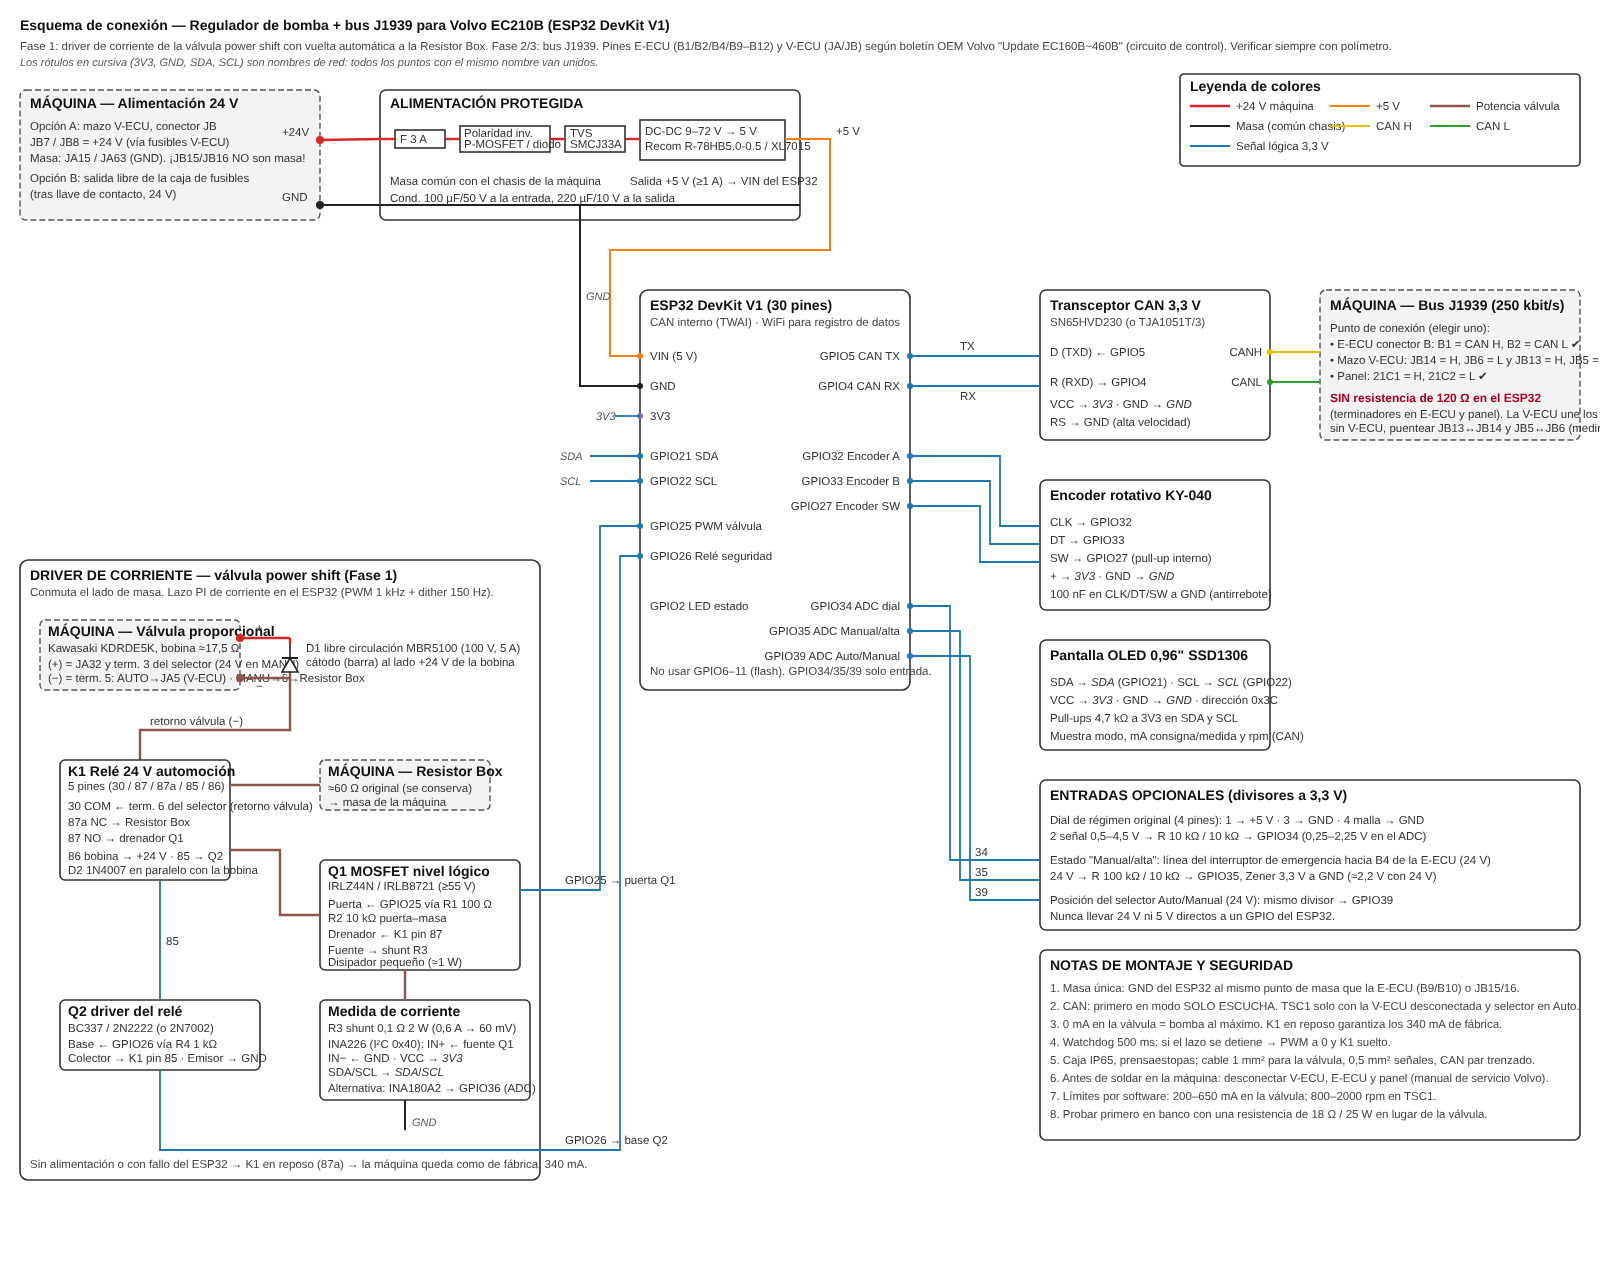
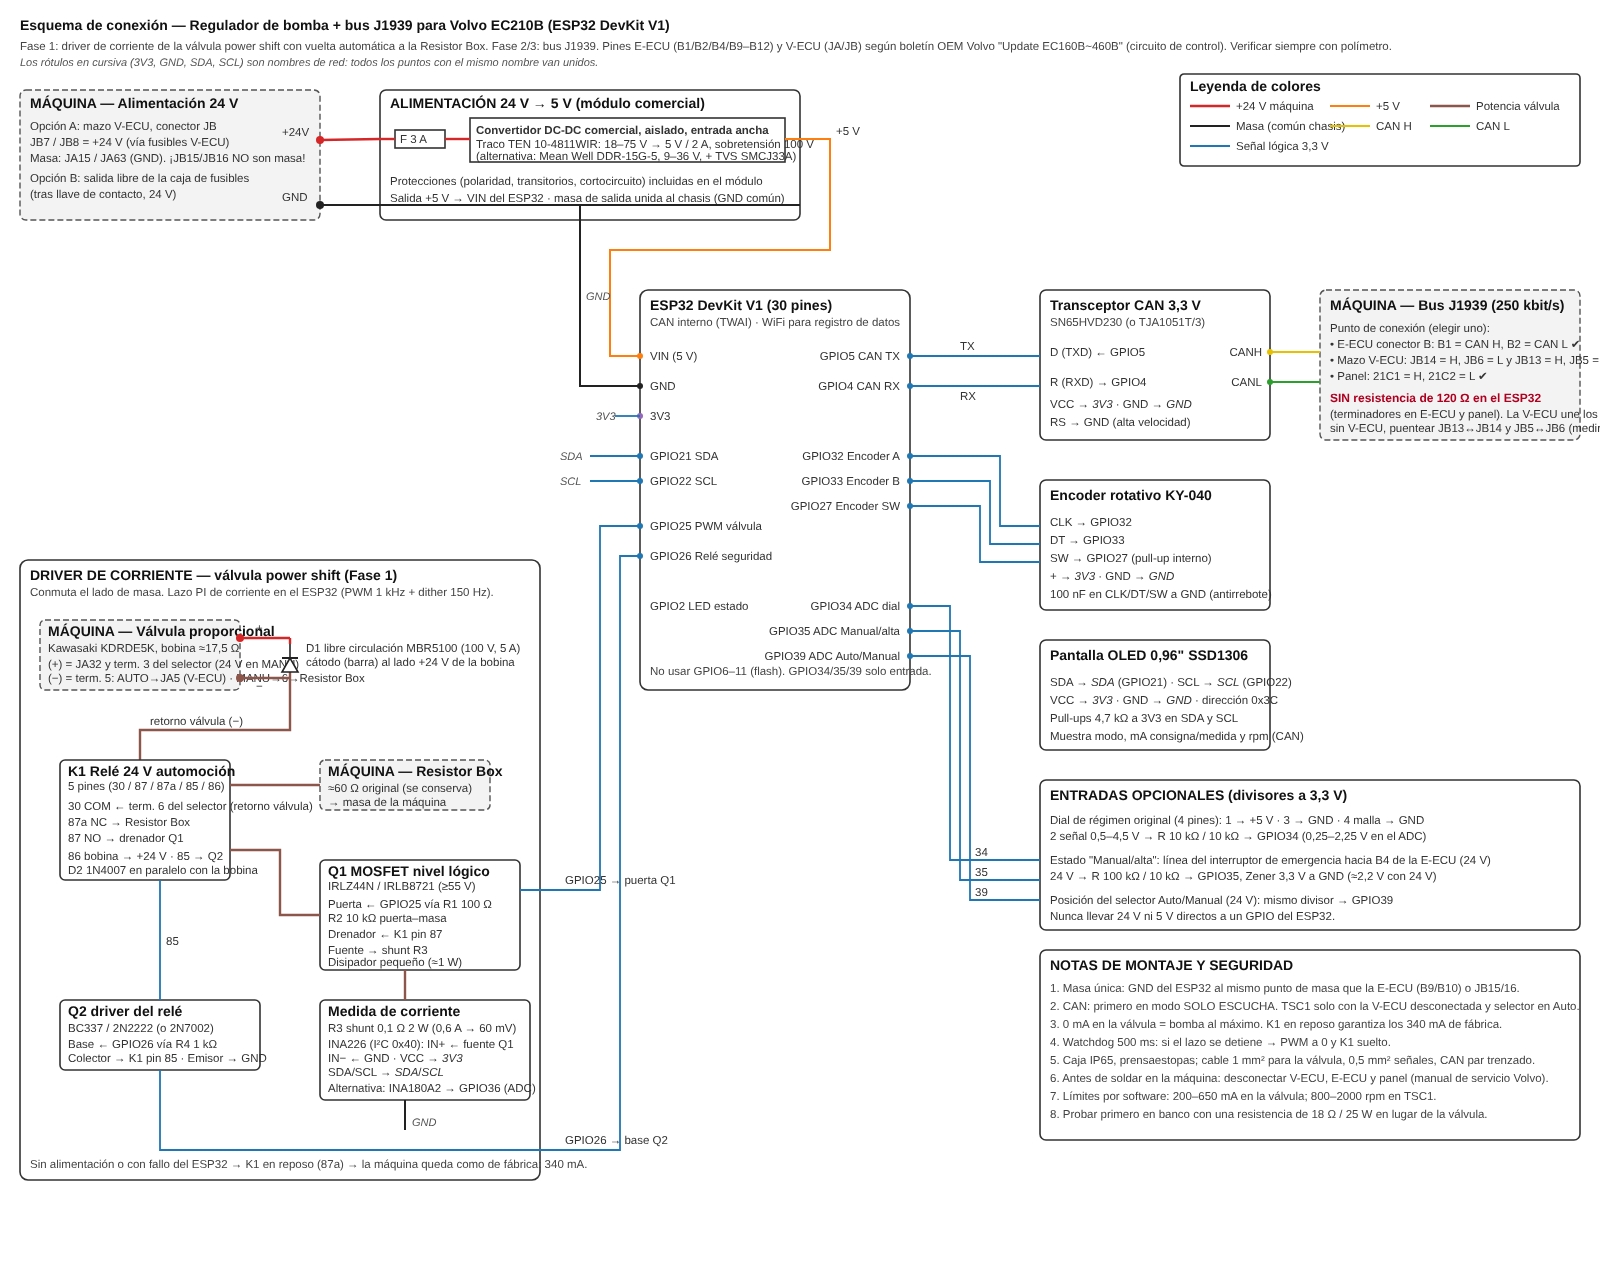
Versión modular del regulador y alimentación con convertidor comercial
- docs/esquema_modular_ESP32.svg/.png: diagrama con módulos premontados
  (DC-DC Traco, amplificador de válvula 0-10 V, DAC GP8403, INA226,
  relé NO/NC, CAN, optoacopladores, ESP32 en placa de bornes).
- ESQUEMA_CONEXION.md: sección 1.3 "Versión modular"; BOM con convertidor
  comercial en lugar del circuito de alimentación propio.
- esquema_conexion_ESP32.svg: bloque de alimentación actualizado.
- LISTA_COMPRA.md: bloque E con el convertidor comercial.
- CHANGELOG actualizado.

Claude-Session: https://claude.ai/code/session_01P7Zsw5NLTBMVKWo4ZsTFMR

Changed region(s): [[0.2475, 0.0625, 0.495, 0.1562]]

diff --git a/docs/ESQUEMA_CONEXION.md b/docs/ESQUEMA_CONEXION.md
@@ -59,6 +59,26 @@ La V-ECU recibe el bus en **dos pares** (JB13/JB5 desde la E-ECU y JB14/JB6 haci
 
 ---
 
+## 1.3 Versión MODULAR (recomendada): solo módulos premontados
+
+Esquema: [`esquema_modular_ESP32.svg`](esquema_modular_ESP32.svg) · [`.png`](esquema_modular_ESP32.png). Sustituye el driver discreto (MOSFET + shunt + relé con transistor) por módulos comerciales que se cablean con bornes:
+
+| Módulo | Función | Conexiones |
+|---|---|---|
+| **M1** Convertidor DC-DC 24 → 5 V (Traco TEN 10-4811WIR, 18–75 V, aislado; alternativa Mean Well DDR-15G-5 + TVS) | Alimenta el ESP32 y los módulos de 5 V | +Vin ← 24 V (fusible 3 A) · −Vin ← masa · +Vout → VIN ESP32 · −Vout → GND común |
+| **M2** Amplificador de válvula proporcional (24 V, entrada 0–10 V, Imín/Imáx y dither ajustables) | Regula la corriente de la válvula en lazo cerrado, con dither y rampa; incluye el diodo de libre circulación | +24 V · GND · IN ← M3 · SOL+ → válvula (+) *(solo si se alimenta la válvula desde el amplificador; en modo Manual el + ya llega del selector, entonces SOL+ no se usa)* · SOL− → M4 → M5 NO |
+| **M3** DAC I²C 0–10 V (DFRobot GP8403) o módulo PWM → 0–10 V | Convierte la consigna del ESP32 en 0–10 V | SDA/SCL · 5 V · OUT0 → IN de M2 |
+| **M4** Módulo INA226 (shunt 0,1 Ω integrado, hasta 0,8 A) | Supervisa que la corriente real coincide con la consigna | En serie con SOL− · SDA/SCL · 3,3 V |
+| **M5** Módulo relé 1 canal NO/NC, optoacoplado, disparo a nivel alto, compatible 3,3 V | Seguridad: sin excitar conecta la Resistor Box de fábrica | COM ← terminal 6 (retorno válvula) · NC → Resistor Box · NO → SOL− · IN ← GPIO26 · 5 V · GND |
+| **M6** Módulo CAN SN65HVD230 (o TJA1051T/3) **sin la resistencia de 120 Ω** | Bus J1939 | CANH ← B1 / JB14 · CANL ← B2 / JB6 · TX ← GPIO5 · RX → GPIO4 · 3,3 V |
+| **M7** Módulo optoacoplador 24 V → 3,3 V (2–4 canales) | Lee el estado del interruptor de emergencia (B4) y del selector Auto/Manual (terminal 2) | IN1 ← B4 · IN2 ← terminal 2 · OUT1 → GPIO35 · OUT2 → GPIO39 · VCC 3,3 V |
+| **M8** ESP32 DevKit V1 sobre **placa de expansión con bornes de tornillo** | Lógica, consignas, supervisión, watchdog | Ver tabla de pines §2 |
+| **M9** Encoder KY-040 + OLED SSD1306 | Interfaz | GPIO32/33/27 · SDA/SCL · 3,3 V |
+
+**Ajuste del amplificador M2:** Imín = 200 mA, Imáx = 650 mA, dither 100–150 Hz, rampa 0,5–1 s. Con esos límites la consigna del ESP32 se calcula como *V = 10 · (I − 200) / 450*: 215 mA ≈ 0,3 V · 250 mA ≈ 1,1 V · 290 mA ≈ 2,0 V · 340 mA ≈ 3,1 V · 450 mA ≈ 5,6 V · 555 mA ≈ 7,9 V. Se calibra con la lectura del M4.
+
+**Cableado de la válvula en modo Manual:** la válvula sigue recibiendo su +24 V por el selector (terminal 2–3). El amplificador M2 solo conmuta el lado de masa: SOL− del M2 **no** se conecta a la válvula directamente, sino que el retorno de la válvula (terminal 6) entra en COM del relé M5; NC va a la Resistor Box y NO va, a través del M4, a SOL− del M2. Si el amplificador elegido exige controlar los dos hilos de la bobina (SOL+ y SOL−), hay que llevar el + de la válvula a SOL+ y dejar el terminal 3 del selector sin conectar; en ese caso el relé debe conmutar también el +. Se decidirá al ver la hoja del amplificador comprado.
+
 ## 2. Tabla de pines — ESP32 DevKit V1
 
 | Función | GPIO | Notas |
@@ -114,11 +134,9 @@ La V-ECU recibe el bus en **dos pares** (JB13/JB5 desde la E-ECU y JB14/JB6 haci
 | U2 | Transceptor CAN 3,3 V | SN65HVD230 (módulo) o TJA1051T/3 | 1 | sin terminación |
 | U3 | Medidor de corriente I²C | INA226 (módulo) | 1 | shunt externo |
 | U4 | Pantalla | OLED 0,96" SSD1306 I²C | 1 | |
-| U5 | DC-DC 24 → 5 V | Recom R-78HB5.0-0.5 (9–72 V) o módulo XL7015 | 1 | ≥ 0,5 A |
-| F1 | Fusible | 3 A, portafusibles en línea | 1 | |
-| D3 | Protección polaridad | P-MOSFET (IRF4905) con Zener 12 V, o diodo Schottky 5 A | 1 | |
-| TVS1 | Supresor | SMCJ33A (33 V, 1500 W) | 1 | en la entrada de 24 V |
-| C1, C2 | Condensadores | 100 µF/50 V · 220 µF/10 V | 1+1 | entrada / salida DC-DC |
+| U5 | **Convertidor DC-DC comercial 24 → 5 V**, aislado, entrada ancha | **Traco TEN 10-4811WIR** (18–75 V, 5 V / 2 A, aguanta 100 V durante 1 s, EN 50155) | 1 | Incluye protección contra polaridad inversa, transitorios y cortocircuito. Alternativas: Traco TEN 5-4811WI (1 A); Mean Well DDR-15G-5 (9–36 V, carril DIN) **añadiendo un TVS SMCJ33A** en la entrada |
+| F1 | Fusible | 3 A, portafusibles en línea | 1 | único componente externo al módulo |
+| C2 | Condensador | 220 µF/10 V en la salida de 5 V | 1 | opcional, cerca del ESP32 |
 | Q1 | MOSFET nivel lógico | IRLZ44N o IRLB8721 (≥55 V) | 1 | disipador pequeño |
 | R1, R2 | Puerta Q1 | 100 Ω · 10 kΩ | 1+1 | |
 | D1 | Diodo libre circulación | MBR5100 / SB5100 (100 V, 5 A) | 1 | cátodo al +24 V de la bobina |

diff --git a/CHANGELOG.md b/CHANGELOG.md
@@ -8,6 +8,10 @@ Todos los cambios relevantes del proyecto se documentan aquí. Formato basado en
 - `docs/PINOUT_E-ECU.md`: tablas completas de los conectores B (máquina) y A (motor) de la E-ECU 03161983, con la función en la excavadora (circuito OEM EC160B–290B), la función de referencia en el camión D12 (Vectro II), colores de cable y la conexión pin a pin al ESP32 con el procedimiento de comprobación.
 - `docs/pinout_E-ECU_conector_B_ESP32.svg` / `.png`: diagrama del conector B de 36 pines con código de colores por función y el esquema de conexión al ESP32 (CAN, masa, lectura opcional de B4).
 - README: sección 2d con el diagrama del conector B y su explicación.
+- `docs/esquema_modular_ESP32.svg` / `.png` y sección 1.3 de `ESQUEMA_CONEXION.md`: **versión modular** del regulador con solo módulos premontados (convertidor DC-DC comercial, amplificador de válvula proporcional 0–10 V, DAC GP8403, INA226, módulo relé NO/NC, módulo CAN, módulo optoacoplador, ESP32 sobre placa de bornes). Pasa a ser la versión recomendada; el circuito discreto queda como alternativa.
+
+### Cambiado
+- Alimentación: se sustituye el circuito propio (fusible + polaridad + TVS + DC-DC) por un **convertidor comercial aislado de entrada ancha** (Traco TEN 10-4811WIR) en el esquema, la BOM y la lista de compra.
 - `docs/LISTA_COMPRA.md`: lista de compra completa por bloques (medida, electrónica Fase 1, CAN, conectores, protección/caja, banco de pruebas, alternativa Nano), con referencias, cantidades, tiendas, precios orientativos, coste total estimado y orden de compra.
 
 ### Pendiente
